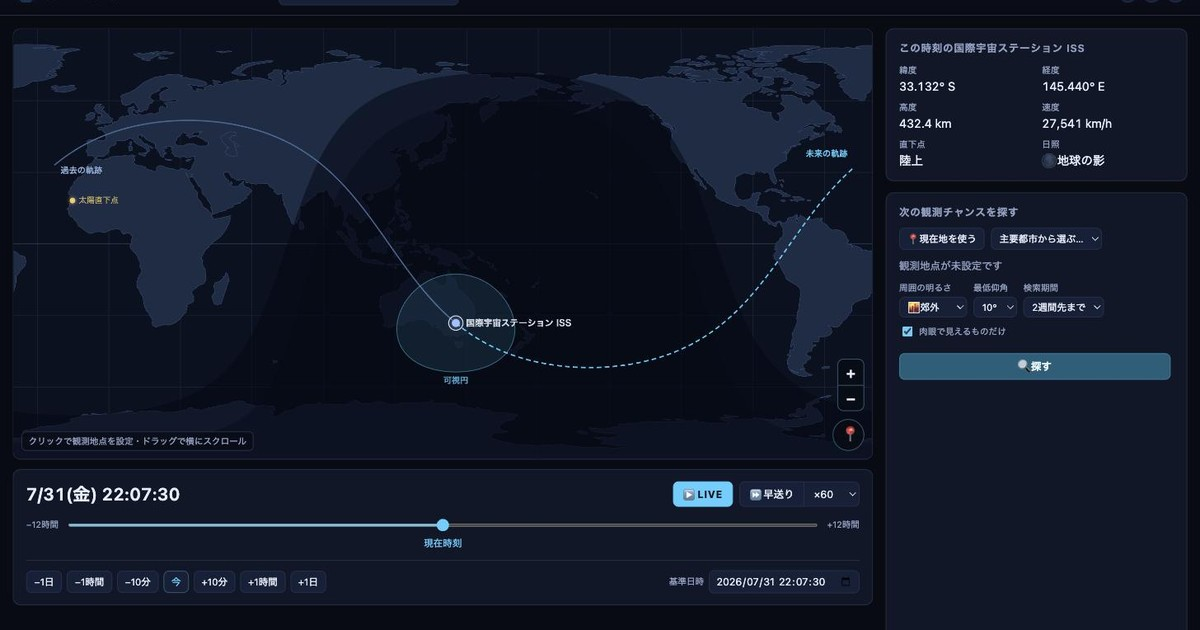
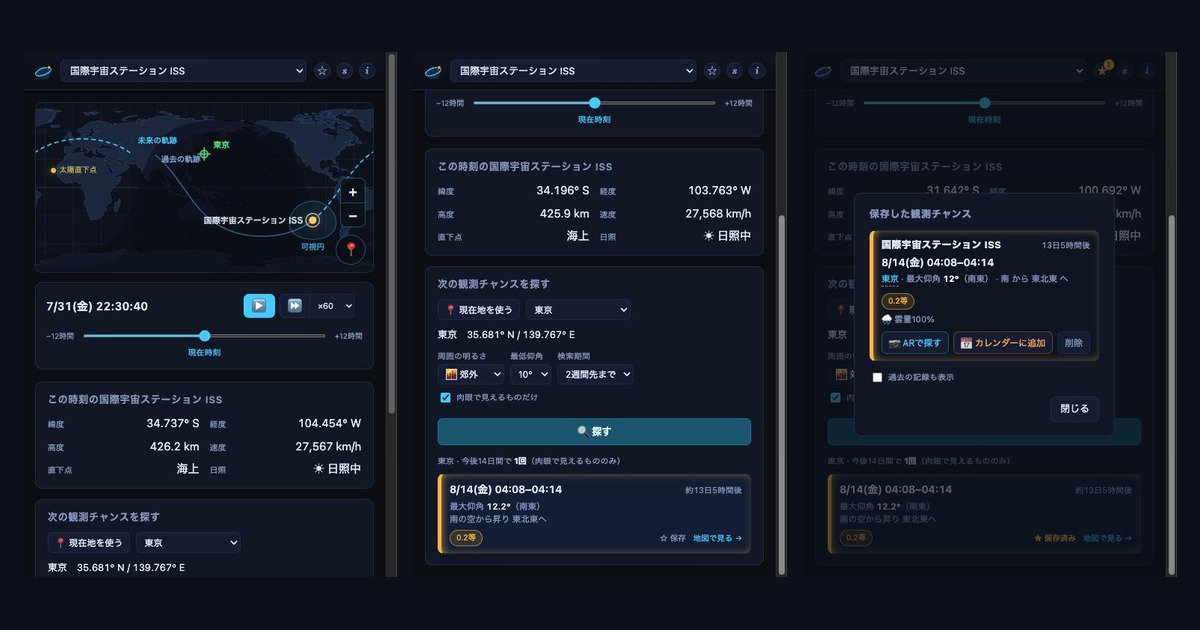
feat: Cloudflare Web Analyticsを追加し、OGP画像をアプリ画面ベースに更新
ページビュー計測のためCloudflare Web Analyticsのビーコンを追加(Cookie/localStorage不使用)。
AGENTS.md/READMEの外部通信先の記述も更新。
OGP画像を実際のアプリ画面(地図・検索結果・お気に入り一覧)のスマートフォン表示から作成し直した。

diff --git a/index.html b/index.html
@@ -45,6 +45,10 @@
   }
 }
 </script>
+
+<!-- Cloudflare Web Analytics -->
+<script type='module' src='https://static.cloudflareinsights.com/beacon.min.js' data-cf-beacon='{"token": "2f962e822cd24efd9e3e370ca944cc9f"}'></script>
+<!-- End Cloudflare Web Analytics -->
 </head>
 <body>
 
